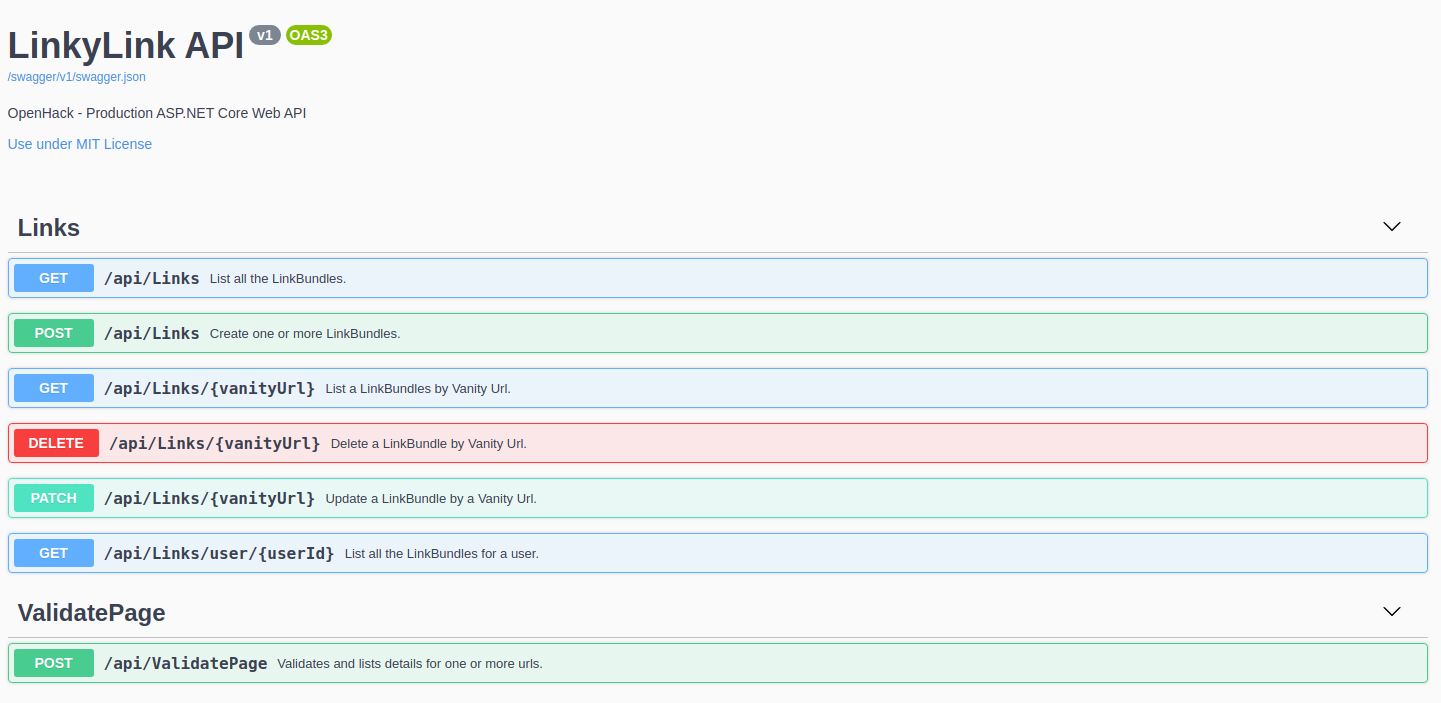
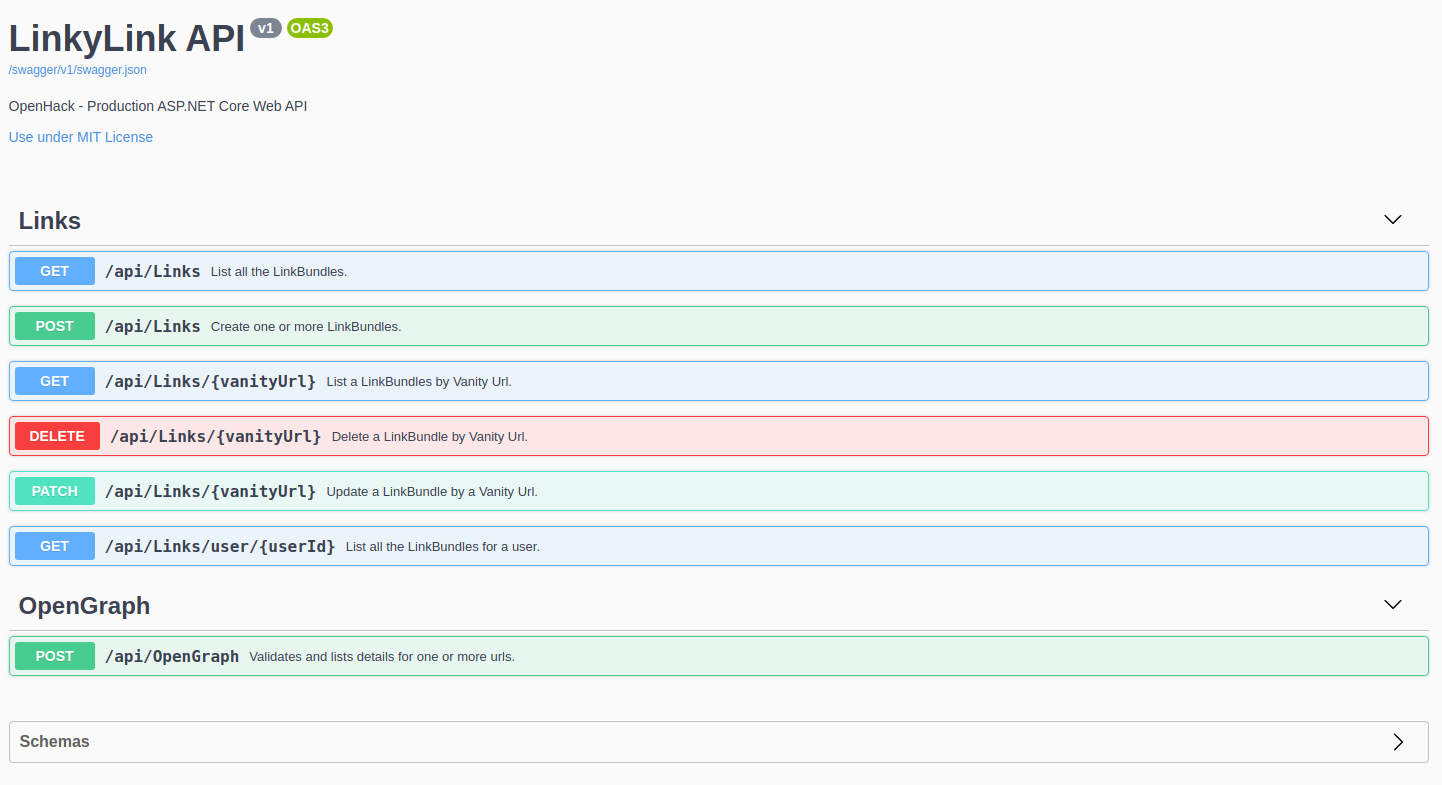
API Updates & Documentation (#17)
* Created new class OpenGraphRequest

Re-named ValidatePage to OpenGraph
Re-named ValidatePageControllerTests

OpenGraphService re-factored
OpenGraphController and related tests modified for name change
Updated theurlist_collection.json Validation Page section with new name and request body format

Removed unused namespaces from OpenGraphController and updated remarks sample request body

Added annotations to OpenGraphService and OpenGraphController

Updated API README with REST Client extension example

Updated documentation images & added some xml annotations to some methods

* Created new class OpenGraphRequest

Re-named ValidatePage to OpenGraph
Re-named ValidatePageControllerTests

OpenGraphService re-factored
OpenGraphController and related tests modified for name change
Updated theurlist_collection.json Validation Page section with new name and request body format

Removed unused namespaces from OpenGraphController and updated remarks sample request body

Added annotations to OpenGraphService and OpenGraphController

Updated API README with REST Client extension example

Updated documentation images & added some xml annotations to some methods

* Removed code that should have been removed when refactor attempt was rolled back

Changed region(s): [[0.0, 0.2688, 0.9993, 0.9858], [0.0, 0.0, 0.2498, 0.2091]]

diff --git a/api/src/LinkyLink/Controllers/OpenGraphController.cs b/api/src/LinkyLink/Controllers/OpenGraphController.cs
@@ -2,26 +2,23 @@
 using LinkyLink.Service;
 using Microsoft.AspNetCore.Http;
 using Microsoft.AspNetCore.Mvc;
-using Newtonsoft.Json;
-using Newtonsoft.Json.Linq;
 using System;
 using System.Collections.Generic;
-using System.IO;
+using System.Linq;
 using System.Threading.Tasks;
 
 namespace LinkyLink.Controllers
 {
     [Route("api/[controller]")]
     [ApiController]
-    // Todo - Change the name of the controller to something meaningful.
     /// <summary>
     /// This class handles API requests to get details of a Link such as title, description and image.
     /// </summary>
-    public class ValidatePageController : Controller
+    public class OpenGraphController : Controller
     {
         private readonly IOpenGraphService _openGraphService;
 
-        public ValidatePageController(IOpenGraphService openGraphService)
+        public OpenGraphController(IOpenGraphService openGraphService)
         {
             _openGraphService = openGraphService;
         }
@@ -32,31 +29,21 @@ namespace LinkyLink.Controllers
         /// <remarks>
         /// Sample body:
         ///
-        ///     {
+        ///     [{
         ///        "id": 1,
-        ///        "url": "https://www.google.com"
-        ///     }
+        ///        "url": "https://www.microsoft.com"
+        ///     }]
         ///
         /// </remarks>        
-        // POST: api/ValidatePage
+        // POST: api/OpenGraph
         [HttpPost]
-        public async Task<ActionResult<OpenGraphResult>> Post()
+        public async Task<ActionResult<OpenGraphResult>> Post(IEnumerable<OpenGraphRequest> openGraphRequests)
         {
             try
             {
-                string requestBody = await new StreamReader(Request.Body).ReadToEndAsync();
-                dynamic data = JsonConvert.DeserializeObject(requestBody);
-
-                if (data is JArray)
+                if (openGraphRequests != null && openGraphRequests.Count() > 0)
                 {
-                    // expecting a JSON array of objects with url(string), id(string)
-                    IEnumerable<OpenGraphResult> result = await _openGraphService.GetMultipleGraphResults(Request, data);
-                    return new OkObjectResult(result);
-                }
-                else if (data is JObject)
-                {
-                    // expecting a JSON object with url(string), id(string)
-                    OpenGraphResult result = await _openGraphService.GetGraphResult(Request, data);
+                    IEnumerable<OpenGraphResult> result = await _openGraphService.GetGraphResults(Request, openGraphRequests);
                     return new OkObjectResult(result);
                 }
 

diff --git a/api/src/LinkyLink/Service/OpenGraphService.cs b/api/src/LinkyLink/Service/OpenGraphService.cs
@@ -1,7 +1,6 @@
 using HtmlAgilityPack;
 using LinkyLink.Models;
 using Microsoft.AspNetCore.Http;
-using Newtonsoft.Json.Linq;
 using OpenGraphNet;
 using System;
 using System.Collections.Generic;
@@ -10,11 +9,29 @@ using System.Threading.Tasks;
 
 namespace LinkyLink.Service
 {
+    /// <summary>
+    /// Class is used to retrieve OpenGraph information for one or more links
+    /// </summary>
     public class OpenGraphService : IOpenGraphService
     {
-        public async Task<OpenGraphResult> GetGraphResult(HttpRequest req, dynamic singleLinkItem)
+        /// <summary>
+        /// Gets OpenGraph results
+        /// </summary>
+        /// <param name="req"></param>
+        /// <param name="openGraphRequests"></param>
+        /// <returns>List of OpenGraphResults</returns>        
+        public async Task<IEnumerable<OpenGraphResult>> GetGraphResults(HttpRequest req, IEnumerable<OpenGraphRequest> openGraphRequests)
         {
-            string url = singleLinkItem.url, id = singleLinkItem.id;
+            IEnumerable<OpenGraphResult> allResults =
+                await Task.WhenAll((openGraphRequests)
+                .Select(item => GetGraphResult(req, item)));
+
+            return allResults;
+        }
+
+        private async Task<OpenGraphResult> GetGraphResult(HttpRequest req, OpenGraphRequest openGraphRequest)
+        {
+            string url = openGraphRequest.Url, id = openGraphRequest.Id;
             if (!string.IsNullOrEmpty(url) && !string.IsNullOrEmpty(id))
             {
                 /**
@@ -39,15 +56,6 @@ namespace LinkyLink.Service
                 }
             }
             return new OpenGraphResult { Id = id };
-        }
-
-        public async Task<IEnumerable<OpenGraphResult>> GetMultipleGraphResults(HttpRequest req, dynamic multiLinkItem)
-        {
-            IEnumerable<OpenGraphResult> allResults =
-                await Task.WhenAll((multiLinkItem as JArray)
-                .Select(item => GetGraphResult(req, item)));
-
-            return allResults;
-        }
+        }        
     }
 }

diff --git a/api/tests/LinkyLink.Tests/OpenGraphControllerTests.cs b/api/tests/LinkyLink.Tests/OpenGraphControllerTests.cs
@@ -4,30 +4,34 @@ using LinkyLink.Service;
 using Microsoft.AspNetCore.Http;
 using Microsoft.AspNetCore.Mvc;
 using Moq;
+using System.Collections.Generic;
 using System.Threading.Tasks;
 using Xunit;
 
 namespace LinkyLink.Tests
 {
     /// <summary>
-    /// Tests to validate methods in ValidatePageController class.
+    /// Tests to validate methods in OpenGraphController class.
     /// </summary>
-    public class ValidatePageControllerTests
+    public class OpenGraphControllerTests
     {
-        private readonly ValidatePageController _validatePageController;
+        private readonly OpenGraphController _openGraphController;
         private readonly Mock<IOpenGraphService> _mockService;
 
-        public ValidatePageControllerTests()
+        public OpenGraphControllerTests()
         {
             _mockService = new Mock<IOpenGraphService>();
-            _validatePageController = new ValidatePageController(_mockService.Object);
+            _openGraphController = new OpenGraphController(_mockService.Object);
         }
 
         [Fact]
-        public async Task ValidatePageReturnsBadRequestWhenEmptyPayload()
+        public async Task OpenGraphReturnsBadRequestWhenEmptyPayload()
         {
-            // Arrange, Act
-            ActionResult<OpenGraphResult> result = await _validatePageController.Post();
+            // Arrange
+            List<OpenGraphRequest> openGraphRequests = null;
+
+            // Act
+            ActionResult<OpenGraphResult> result = await _openGraphController.Post(openGraphRequests);
 
             // Assert
             Assert.IsType<BadRequestObjectResult>(result.Result);

diff --git a/api/src/LinkyLink/Controllers/LinksController.cs b/api/src/LinkyLink/Controllers/LinksController.cs
@@ -87,6 +87,24 @@ namespace LinkyLink.Controllers
         /// <summary>
         /// Create one or more LinkBundles.
         /// </summary>
+        /// <remarks>
+        /// Sample body:
+        ///
+        /// {
+        /// "links": [
+        ///    {
+        ///    "id": "cjsorrho200023h5poelwd47z",
+        ///    "url": "facebook.com",
+        ///    "title": "Facebook - Log In or Sign Up",
+        ///    "description": "Create an account or log into Facebook. Connect with friends, family and other people you know. Share photos and videos, send messages and get updates.",
+        ///    "image": "//www.facebook.com/images/fb_icon_325x325.png"
+        ///    }
+        ///   ],
+        /// "vanityUrl": "postman-test",
+        /// "description": "",
+        /// "userId": "cecilphillip"
+        /// }
+        /// </remarks>         
         // POST: api/Links
         [HttpPost]
         public async Task<ActionResult<LinkBundle>> PostLinkBundle(LinkBundle linkBundle)

diff --git a/api/src/LinkyLink/Service/IOpenGraphService.cs b/api/src/LinkyLink/Service/IOpenGraphService.cs
@@ -7,8 +7,6 @@ namespace LinkyLink.Service
 {
     public interface IOpenGraphService
     {
-        Task<OpenGraphResult> GetGraphResult(HttpRequest req, dynamic singleLinkItem);
-
-        Task<IEnumerable<OpenGraphResult>> GetMultipleGraphResults(HttpRequest req, dynamic multiLinkItem);
+        Task<IEnumerable<OpenGraphResult>> GetGraphResults(HttpRequest req, IEnumerable<OpenGraphRequest> openGraphRequests);
     }
 }

diff --git a/api/src/LinkyLink/Models/OpenGraphRequest.cs b/api/src/LinkyLink/Models/OpenGraphRequest.cs
@@ -1,0 +1,11 @@
+namespace LinkyLink.Models
+{
+    /// <summary>
+    /// This class is used to validate and request an open graph.
+    /// </summary>
+    public class OpenGraphRequest
+    {
+        public string Id { get; set; }
+        public string Url { get; set; }
+    }
+}

diff --git a/api/README.md b/api/README.md
@@ -20,6 +20,7 @@ The backend for this project was built as a .Net Core API using .NET Core. All t
 #### Optional
 
 - Install [Postman](https://www.getpostman.com/)
+- Install [REST Client](https://marketplace.visualstudio.com/items?itemName=humao.rest-client)
 
 ### Run the ASP.Net Core Web API backend
 
@@ -91,7 +92,16 @@ If everything was setup correctly, you should see a response that resembles the 
 
 ![postman](docs/postman_response.png)
 
-### API Paths
+### Try out the API using the REST Client extension
+
+- Open the `validate-api.http` file located in the `openhack-production/api` directory
+- Follow the instructions in the `Run the ASP.Net Core Web API backend` section of this README to start the backend
+- Select `Send Request` for any of the endpoints
+
+![REST Client](docs/rest_client.png)
+
+
+### API Documentation
 
 - The API uses [Swagger](https://swagger.io/) for API Documentation.  You can view the swagger documentation by navigating to: `https://localhost:<port>/swagger`
 
